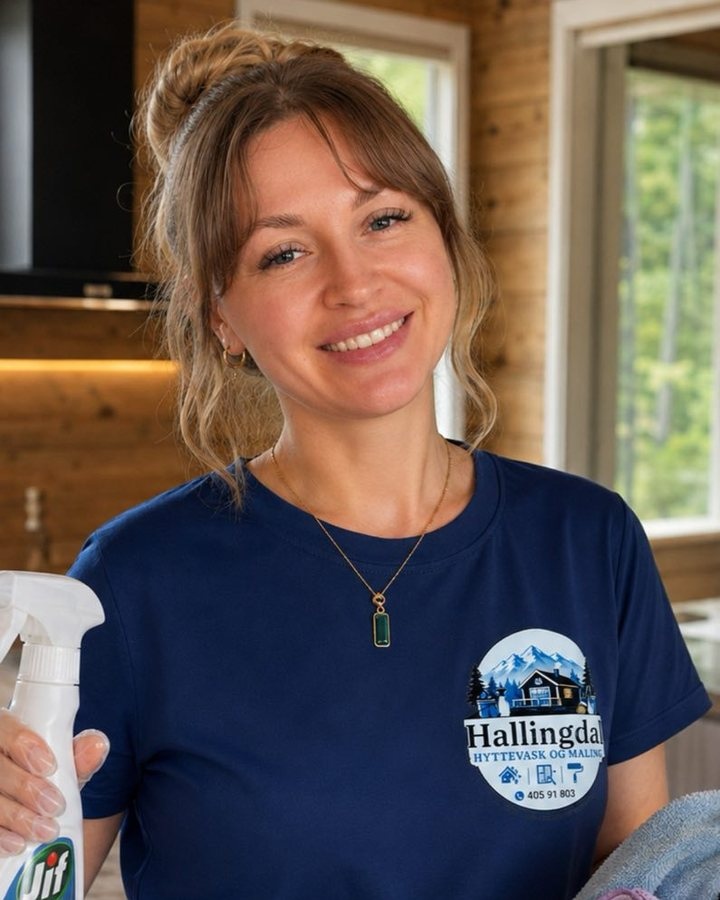
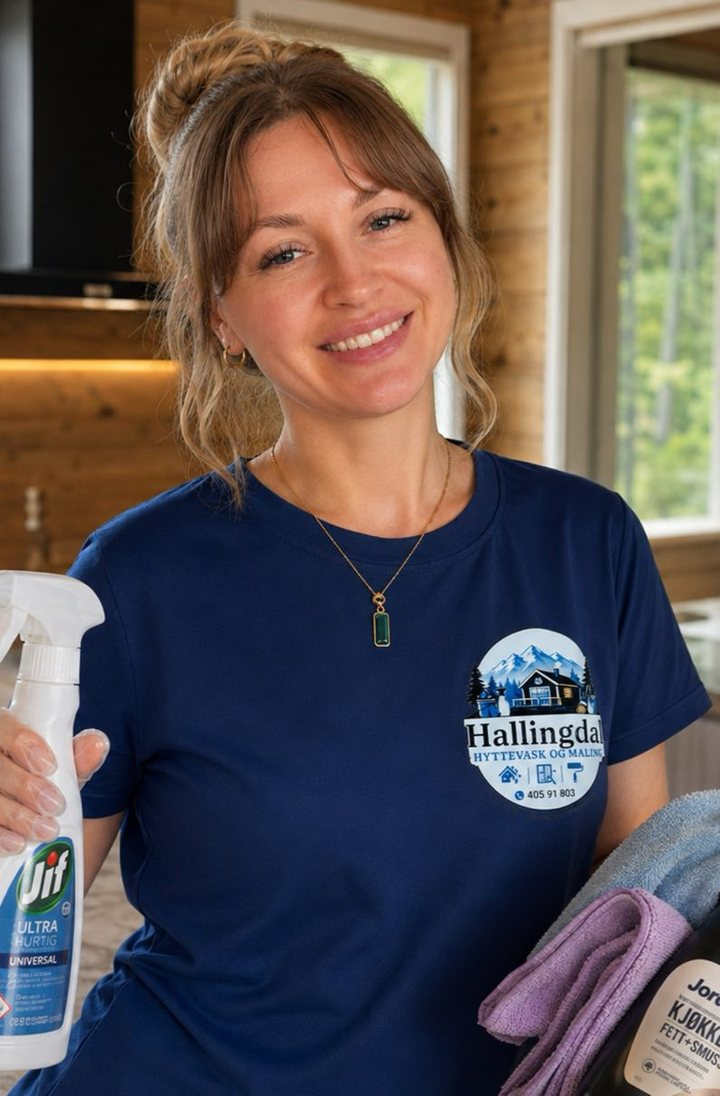
Owner photo: keep full height, trim top only

diff --git a/index.html b/index.html
@@ -57,8 +57,8 @@
 
   .photo-slot { aspect-ratio: 4/5; border: 2px dashed rgba(175,205,47,.5); border-radius: 14px; display: flex; flex-direction: column; align-items: center; justify-content: center; gap: .5rem; color: var(--muted); background: rgba(255,255,255,.03); text-align: center; padding: 1rem; }
   .photo-slot .script { font-size: 1.5rem; }
-  .photo-slot.has-photo { border: none; padding: 0; background: none; overflow: hidden; box-shadow: 0 12px 32px rgba(0,0,0,.35); }
-  .photo-slot.has-photo img { width: 100%; height: 100%; object-fit: cover; border-radius: 14px; display: block; }
+  .photo-slot.has-photo { aspect-ratio: auto; border: none; padding: 0; background: none; overflow: hidden; box-shadow: 0 12px 32px rgba(0,0,0,.35); }
+  .photo-slot.has-photo img { width: 100%; height: auto; border-radius: 14px; display: block; }
 
   .badges { display: flex; flex-wrap: wrap; justify-content: center; gap: 1rem; padding: 0 5vw 3rem; max-width: 1150px; margin: 0 auto; }
   .badge { flex: 1 1 240px; display: flex; align-items: center; gap: .9rem; background: var(--green-panel); border: 1px solid var(--line); border-radius: 12px; padding: 1rem 1.3rem; font-weight: 800; font-size: .82rem; letter-spacing: .08em; text-transform: uppercase; }
@@ -193,7 +193,7 @@
     </div>
   </div>
   <div class="photo-slot has-photo">
-    <img src="assets/owner.jpg" alt="Eieren av Hallingdal Hyttevask og Maling" width="720" height="900">
+    <img src="assets/owner.jpg" alt="Eieren av Hallingdal Hyttevask og Maling" width="720" height="1096">
   </div>
 </div>
 
